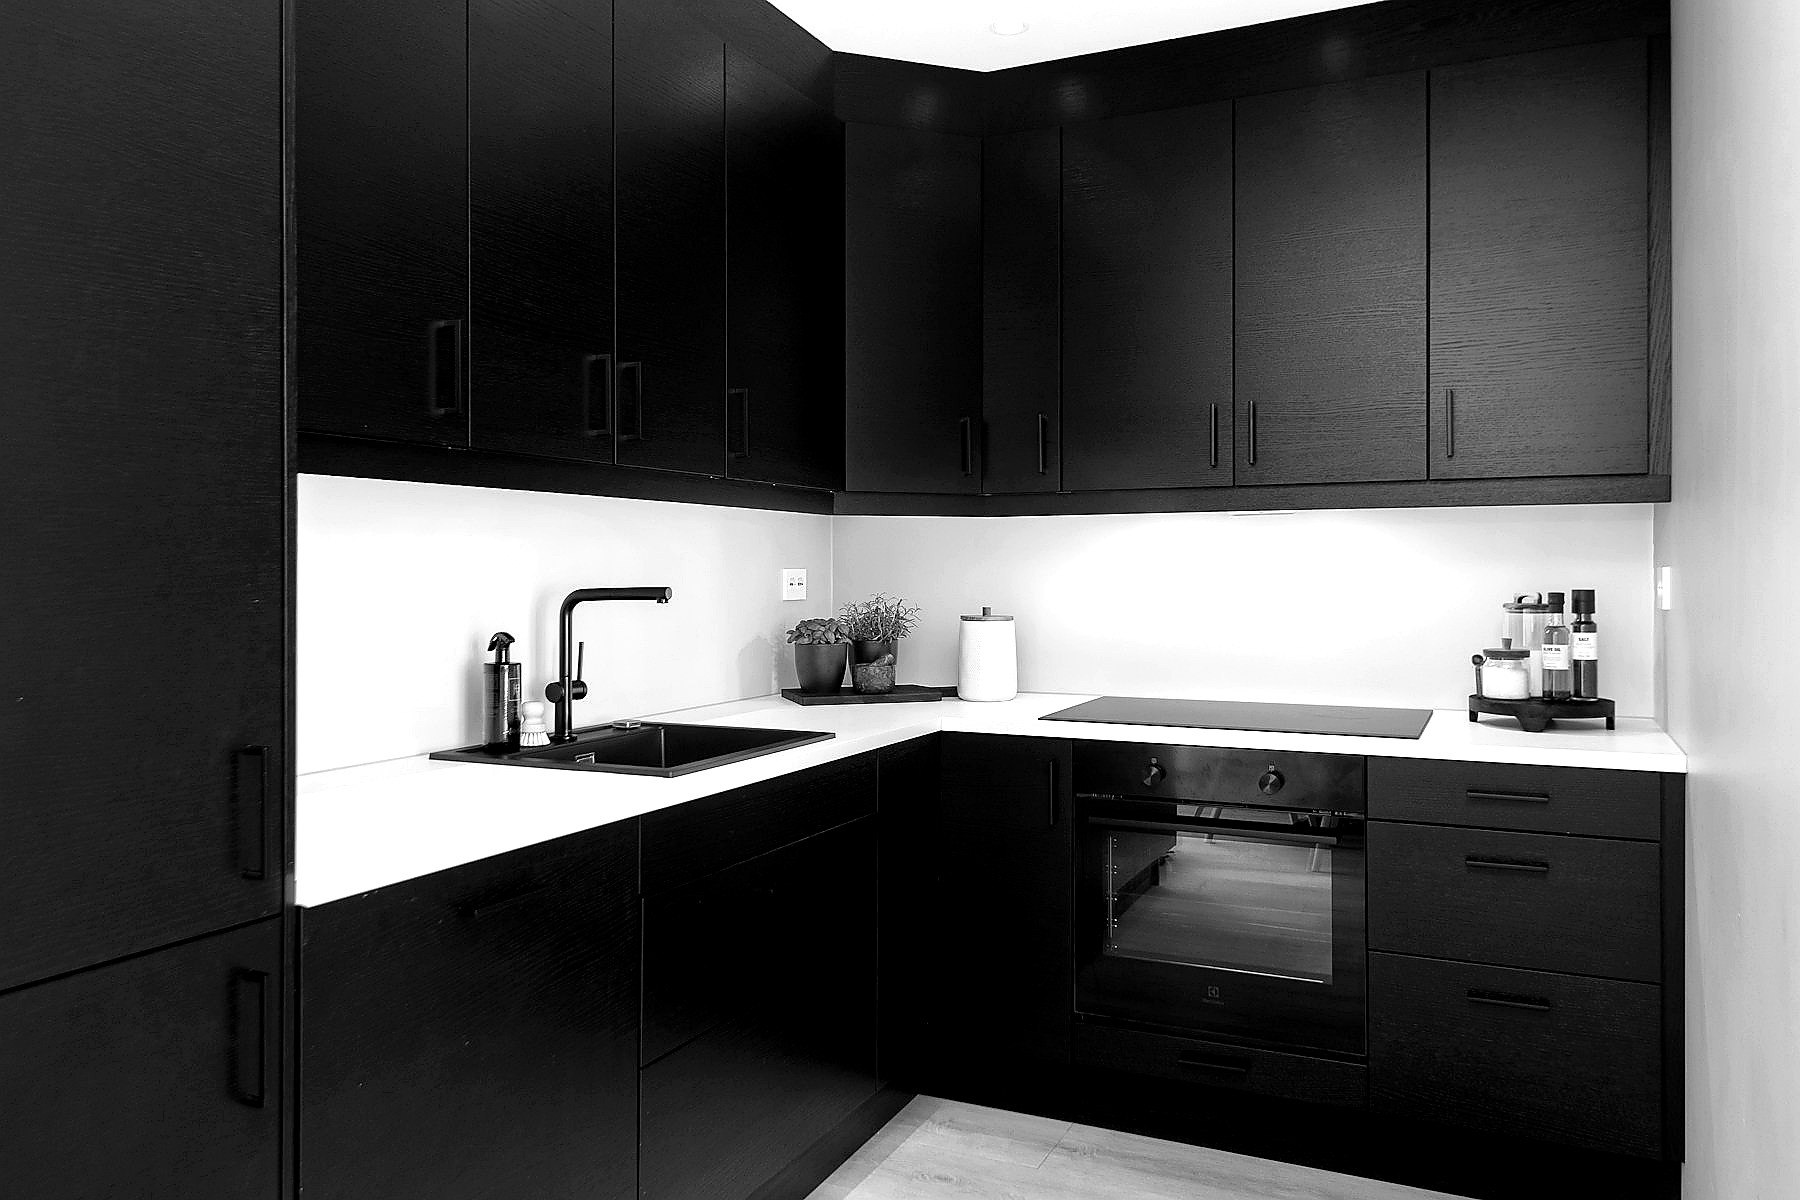
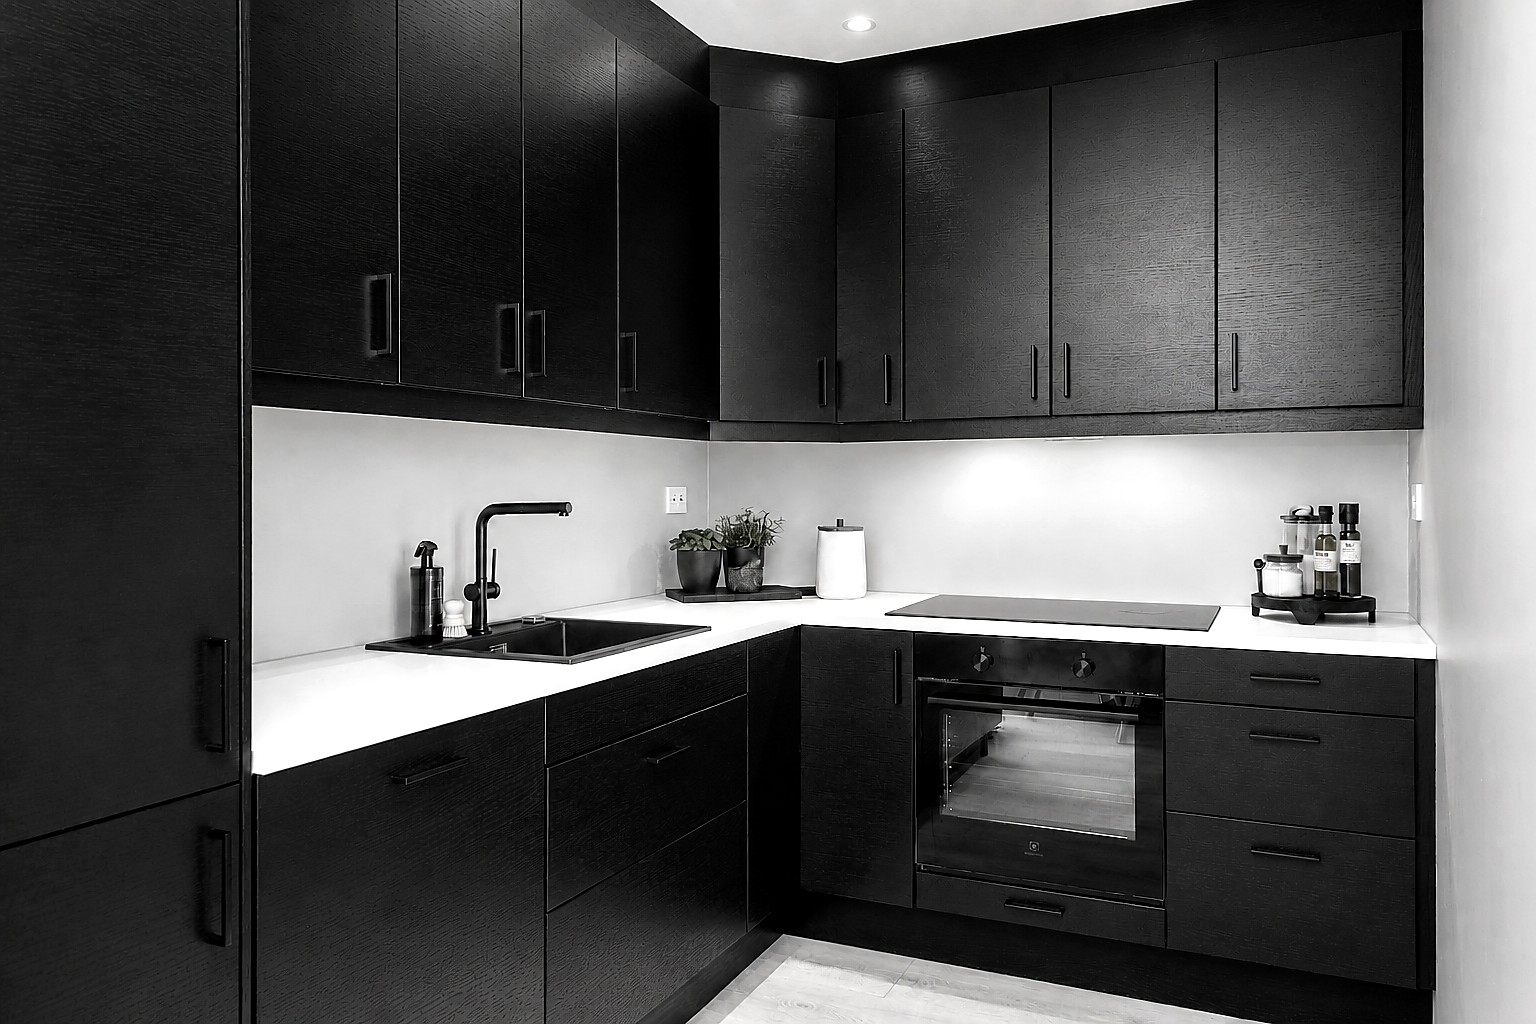
Optimize hero image delivery

Changed region(s): [[0.1562, 0.0, 0.9375, 1.0], [0.0938, 0.0, 0.1875, 0.0625], [0.1562, 0.125, 0.1875, 0.2188]]

diff --git a/index.html b/index.html
@@ -41,7 +41,7 @@
           <a class="under" href="#catalog-grid">Смотреть мебель <span>↘</span></a>
         </div>
       </div>
-      <div class="home-hero-media"><img src="./images/home/enhanced/hero-web.png" width="900" height="610" alt="Современная кухня с чёрными фасадами"></div>
+      <div class="home-hero-media"><img src="./images/home/enhanced/hero-web.jpg" width="900" height="610" alt="Современная кухня с чёрными фасадами"></div>
     </section>
 
     <section class="home-intro wrap">
